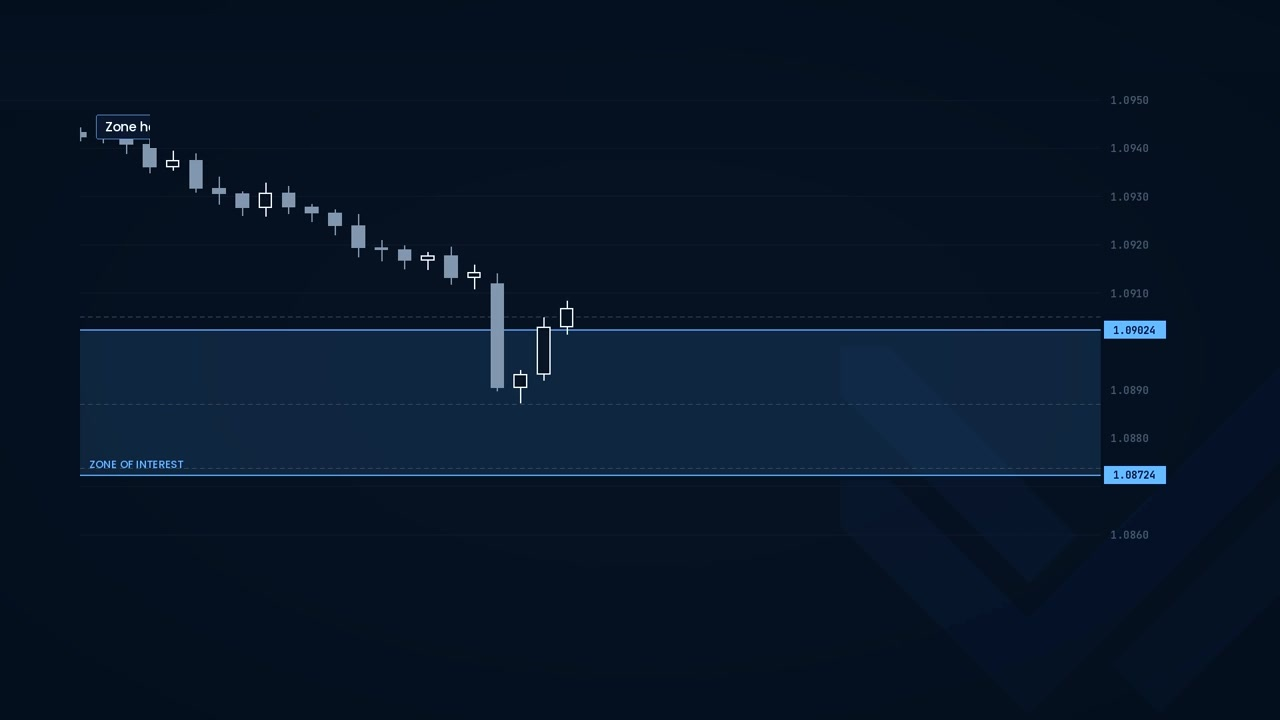
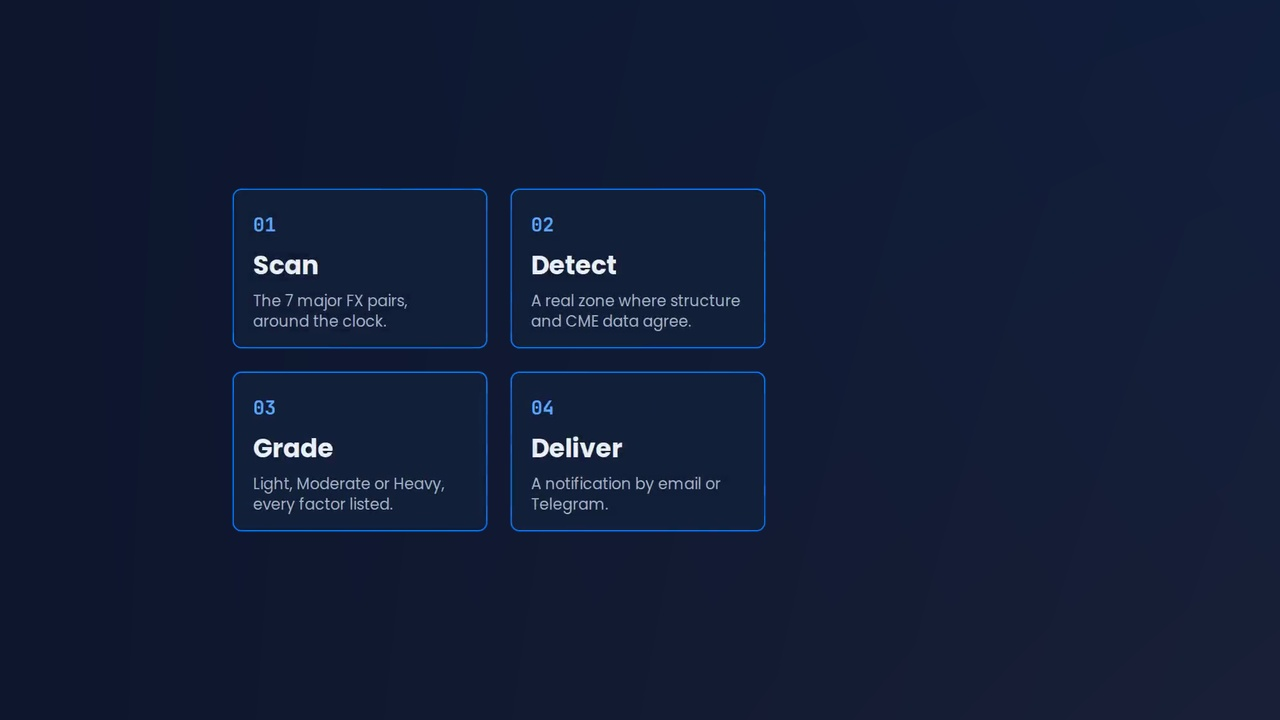
Thumbnails: intro cover uses explainer's how-it-works steps
Claude-Session: https://claude.ai/code/session_01VxsYKLABZ3CXgDK8H7oL1R

diff --git a/youtube/thumbs/xf.html b/youtube/thumbs/xf.html
@@ -17,7 +17,7 @@ h1{position:absolute;left:56px;top:290px;width:400px;font-size:66px;line-height:
 <svg width="0" height="0" style="position:absolute"><filter id="g"><feTurbulence type="fractalNoise" baseFrequency=".9" numOctaves="2" stitchTiles="stitch"/></filter></svg>
 <script>
 const V=[
-['00','v00',170,'00','How<br>FXMM<br><b>works</b>','FXMM Education'],
+['00','v00',0,'00','How<br>FXMM<br><b>works</b>','FXMM Education'],
 ['01','v01',400,'01','Prepare<br>your<br><b>chart</b>','FXMM Education'],
 ['02','v02',300,'02','Check<br>your<br><b>H1</b>','FXMM Education'],
 ['03','v03',350,'03','Rejection<br><b>at the</b><br><b>zone</b>','FXMM Education'],
